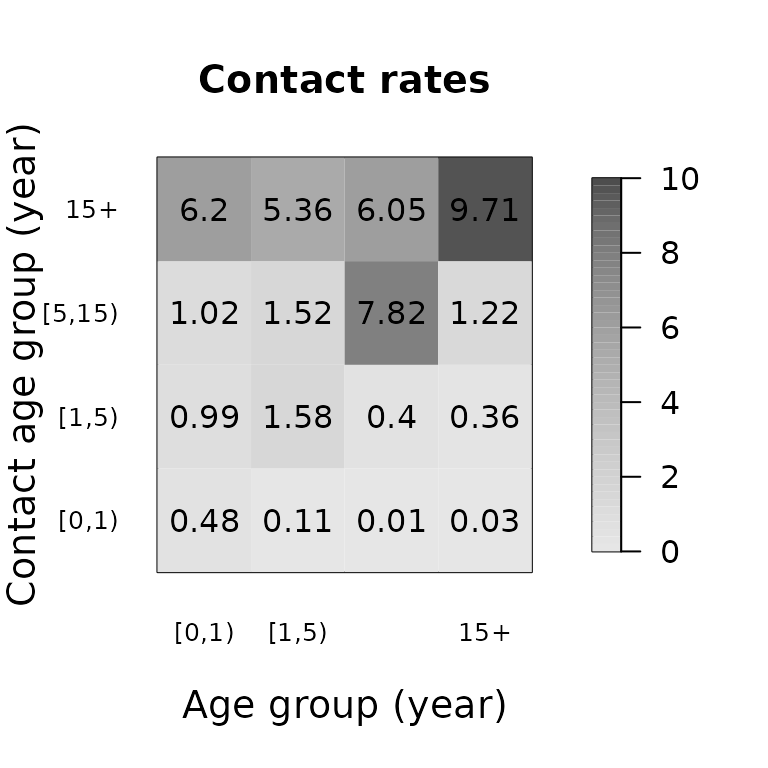
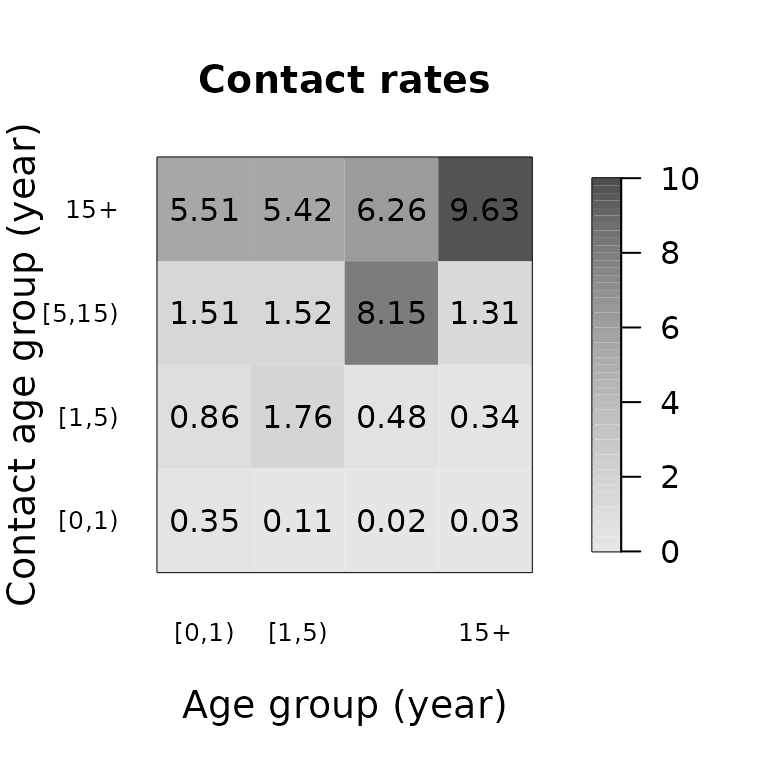
Deploying to gh-pages from @ epiforecasts/socialmixr@5fe58c32103ed3c6b7dedb52aa8b15b792338e00 🚀

diff --git a/articles/socialmixr.html b/articles/socialmixr.html
@@ -26,7 +26,7 @@
     
     <a class="navbar-brand me-2" href="../index.html">socialmixr</a>
 
-    <small class="nav-text text-muted me-auto" data-bs-toggle="tooltip" data-bs-placement="bottom" title="">0.3.0</small>
+    <small class="nav-text text-muted me-auto" data-bs-toggle="tooltip" data-bs-placement="bottom" title="">0.3.0.9000</small>
 
     
     <button class="navbar-toggler" type="button" data-bs-toggle="collapse" data-bs-target="#navbar" aria-controls="navbar" aria-expanded="false" aria-label="Toggle navigation">
@@ -225,10 +225,10 @@ be obtained, for example the mean:</p>
 <span><span class="va">mr</span></span>
 <span><span class="co">#&gt;          contact.age.group</span></span>
 <span><span class="co">#&gt; age.group      [0,1)     [1,5)   [5,15)      15+</span></span>
-<span><span class="co">#&gt;    [0,1)  0.48050420 0.9898039 1.018487 6.195350</span></span>
-<span><span class="co">#&gt;    [1,5)  0.10889383 1.5795335 1.523541 5.355014</span></span>
-<span><span class="co">#&gt;    [5,15) 0.01461439 0.4021419 7.819967 6.047563</span></span>
-<span><span class="co">#&gt;    15+    0.02986912 0.3596489 1.218660 9.706049</span></span></code></pre></div>
+<span><span class="co">#&gt;    [0,1)  0.34952381 0.8561905 1.512063 5.513810</span></span>
+<span><span class="co">#&gt;    [1,5)  0.11038567 1.7565748 1.518764 5.424104</span></span>
+<span><span class="co">#&gt;    [5,15) 0.02379469 0.4786941 8.146463 6.255223</span></span>
+<span><span class="co">#&gt;    15+    0.03318165 0.3376102 1.306337 9.626637</span></span></code></pre></div>
 </div>
 <div class="section level2">
 <h2 id="demography">Demography<a class="anchor" aria-label="anchor" href="#demography"></a>

diff --git a/news/index.html b/news/index.html
@@ -10,7 +10,7 @@
     
     <a class="navbar-brand me-2" href="../index.html">socialmixr</a>
 
-    <small class="nav-text text-muted me-auto" data-bs-toggle="tooltip" data-bs-placement="bottom" title="">0.3.0</small>
+    <small class="nav-text text-muted me-auto" data-bs-toggle="tooltip" data-bs-placement="bottom" title="">0.3.0.9000</small>
 
     
     <button class="navbar-toggler" type="button" data-bs-toggle="collapse" data-bs-target="#navbar" aria-controls="navbar" aria-expanded="false" aria-label="Toggle navigation">
@@ -47,6 +47,9 @@
       <small>Source: <a href="https://github.com/epiforecasts/socialmixr/blob/HEAD/NEWS.md" class="external-link"><code>NEWS.md</code></a></small>
     </div>
 
+    <div class="section level2">
+<h2 class="pkg-version" data-toc-text="development version" id="socialmixr-development-version">socialmixr (development version)<a class="anchor" aria-label="anchor" href="#socialmixr-development-version"></a></h2>
+</div>
     <div class="section level2">
 <h2 class="pkg-version" data-toc-text="0.3.0" id="socialmixr-030">socialmixr 0.3.0<a class="anchor" aria-label="anchor" href="#socialmixr-030"></a></h2><p class="text-muted">CRAN release: 2023-10-18</p>
 <div class="section level3">

diff --git a/reference/polymod.html b/reference/polymod.html
@@ -20,7 +20,7 @@ to the Spread of Infectious Diseases. PLoS Med 5(3): e74."><!-- mathjax --><scri
     
     <a class="navbar-brand me-2" href="../index.html">socialmixr</a>
 
-    <small class="nav-text text-muted me-auto" data-bs-toggle="tooltip" data-bs-placement="bottom" title="">0.3.0</small>
+    <small class="nav-text text-muted me-auto" data-bs-toggle="tooltip" data-bs-placement="bottom" title="">0.3.0.9000</small>
 
     
     <button class="navbar-toggler" type="button" data-bs-toggle="collapse" data-bs-target="#navbar" aria-controls="navbar" aria-expanded="false" aria-label="Toggle navigation">

diff --git a/reference/wpp_age.html b/reference/wpp_age.html
@@ -14,7 +14,7 @@ in the historical data, wpp projections are used."><!-- mathjax --><script src="
     
     <a class="navbar-brand me-2" href="../index.html">socialmixr</a>
 
-    <small class="nav-text text-muted me-auto" data-bs-toggle="tooltip" data-bs-placement="bottom" title="">0.3.0</small>
+    <small class="nav-text text-muted me-auto" data-bs-toggle="tooltip" data-bs-placement="bottom" title="">0.3.0.9000</small>
 
     
     <button class="navbar-toggler" type="button" data-bs-toggle="collapse" data-bs-target="#navbar" aria-controls="navbar" aria-expanded="false" aria-label="Toggle navigation">

diff --git a/404.html b/404.html
@@ -24,7 +24,7 @@
     
     <a class="navbar-brand me-2" href="https://epiforecasts.io/socialmixr/index.html">socialmixr</a>
 
-    <small class="nav-text text-muted me-auto" data-bs-toggle="tooltip" data-bs-placement="bottom" title="">0.3.0</small>
+    <small class="nav-text text-muted me-auto" data-bs-toggle="tooltip" data-bs-placement="bottom" title="">0.3.0.9000</small>
 
     
     <button class="navbar-toggler" type="button" data-bs-toggle="collapse" data-bs-target="#navbar" aria-controls="navbar" aria-expanded="false" aria-label="Toggle navigation">

diff --git a/articles/index.html b/articles/index.html
@@ -10,7 +10,7 @@
     
     <a class="navbar-brand me-2" href="../index.html">socialmixr</a>
 
-    <small class="nav-text text-muted me-auto" data-bs-toggle="tooltip" data-bs-placement="bottom" title="">0.3.0</small>
+    <small class="nav-text text-muted me-auto" data-bs-toggle="tooltip" data-bs-placement="bottom" title="">0.3.0.9000</small>
 
     
     <button class="navbar-toggler" type="button" data-bs-toggle="collapse" data-bs-target="#navbar" aria-controls="navbar" aria-expanded="false" aria-label="Toggle navigation">

diff --git a/reference/check.html b/reference/check.html
@@ -10,7 +10,7 @@
     
     <a class="navbar-brand me-2" href="../index.html">socialmixr</a>
 
-    <small class="nav-text text-muted me-auto" data-bs-toggle="tooltip" data-bs-placement="bottom" title="">0.3.0</small>
+    <small class="nav-text text-muted me-auto" data-bs-toggle="tooltip" data-bs-placement="bottom" title="">0.3.0.9000</small>
 
     
     <button class="navbar-toggler" type="button" data-bs-toggle="collapse" data-bs-target="#navbar" aria-controls="navbar" aria-expanded="false" aria-label="Toggle navigation">

diff --git a/reference/cite.html b/reference/cite.html
@@ -10,7 +10,7 @@
     
     <a class="navbar-brand me-2" href="../index.html">socialmixr</a>
 
-    <small class="nav-text text-muted me-auto" data-bs-toggle="tooltip" data-bs-placement="bottom" title="">0.3.0</small>
+    <small class="nav-text text-muted me-auto" data-bs-toggle="tooltip" data-bs-placement="bottom" title="">0.3.0.9000</small>
 
     
     <button class="navbar-toggler" type="button" data-bs-toggle="collapse" data-bs-target="#navbar" aria-controls="navbar" aria-expanded="false" aria-label="Toggle navigation">

diff --git a/reference/clean.html b/reference/clean.html
@@ -10,7 +10,7 @@
     
     <a class="navbar-brand me-2" href="../index.html">socialmixr</a>
 
-    <small class="nav-text text-muted me-auto" data-bs-toggle="tooltip" data-bs-placement="bottom" title="">0.3.0</small>
+    <small class="nav-text text-muted me-auto" data-bs-toggle="tooltip" data-bs-placement="bottom" title="">0.3.0.9000</small>
 
     
     <button class="navbar-toggler" type="button" data-bs-toggle="collapse" data-bs-target="#navbar" aria-controls="navbar" aria-expanded="false" aria-label="Toggle navigation">

diff --git a/reference/contact_matrix.html b/reference/contact_matrix.html
@@ -10,7 +10,7 @@
     
     <a class="navbar-brand me-2" href="../index.html">socialmixr</a>
 
-    <small class="nav-text text-muted me-auto" data-bs-toggle="tooltip" data-bs-placement="bottom" title="">0.3.0</small>
+    <small class="nav-text text-muted me-auto" data-bs-toggle="tooltip" data-bs-placement="bottom" title="">0.3.0.9000</small>
 
     
     <button class="navbar-toggler" type="button" data-bs-toggle="collapse" data-bs-target="#navbar" aria-controls="navbar" aria-expanded="false" aria-label="Toggle navigation">

diff --git a/reference/download_survey.html b/reference/download_survey.html
@@ -10,7 +10,7 @@
     
     <a class="navbar-brand me-2" href="../index.html">socialmixr</a>
 
-    <small class="nav-text text-muted me-auto" data-bs-toggle="tooltip" data-bs-placement="bottom" title="">0.3.0</small>
+    <small class="nav-text text-muted me-auto" data-bs-toggle="tooltip" data-bs-placement="bottom" title="">0.3.0.9000</small>
 
     
     <button class="navbar-toggler" type="button" data-bs-toggle="collapse" data-bs-target="#navbar" aria-controls="navbar" aria-expanded="false" aria-label="Toggle navigation">

diff --git a/reference/get_citation.html b/reference/get_citation.html
@@ -10,7 +10,7 @@
     
     <a class="navbar-brand me-2" href="../index.html">socialmixr</a>
 
-    <small class="nav-text text-muted me-auto" data-bs-toggle="tooltip" data-bs-placement="bottom" title="">0.3.0</small>
+    <small class="nav-text text-muted me-auto" data-bs-toggle="tooltip" data-bs-placement="bottom" title="">0.3.0.9000</small>
 
     
     <button class="navbar-toggler" type="button" data-bs-toggle="collapse" data-bs-target="#navbar" aria-controls="navbar" aria-expanded="false" aria-label="Toggle navigation">
